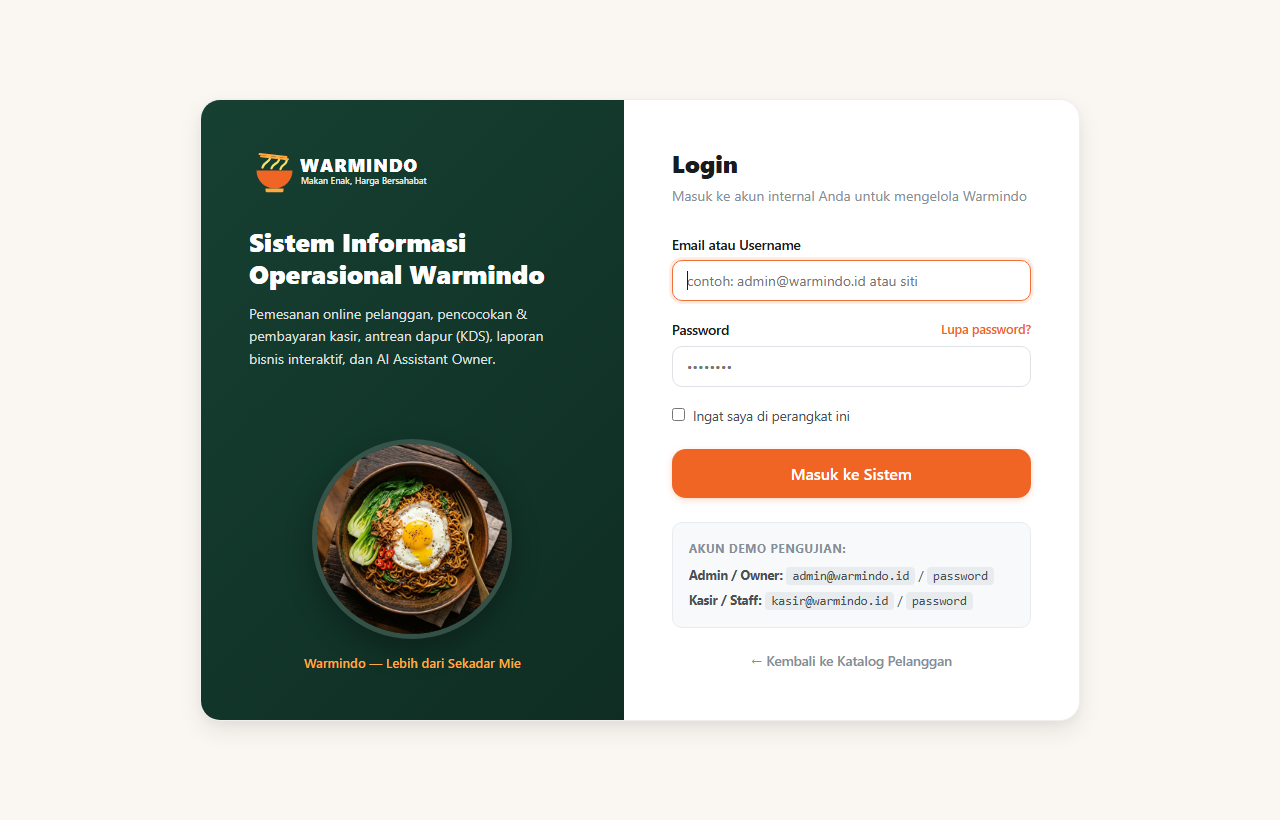
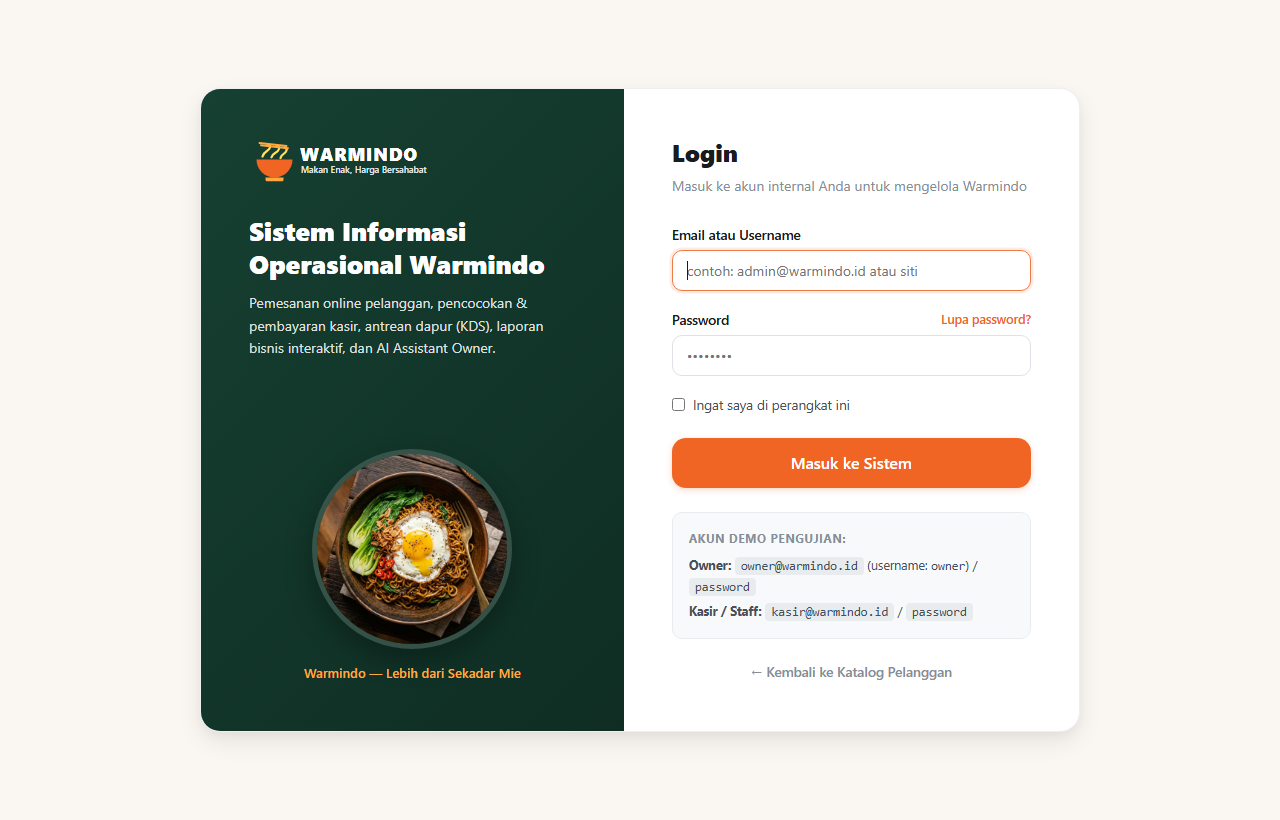
refactor: rename Admin role & UI representations to Owner across layouts, seeders, views, and documentation

diff --git a/resources/views/layouts/admin.blade.php b/resources/views/layouts/admin.blade.php
@@ -3,7 +3,7 @@
 <head>
   <meta charset="UTF-8">
   <meta name="viewport" content="width=device-width, initial-scale=1.0">
-  <title>@yield('title', 'Admin Warmindo — Sistem Operasional & Owner Dashboard')</title>
+  <title>@yield('title', 'Owner Warmindo — Sistem Operasional & Dashboard Bisnis')</title>
   <link rel="stylesheet" href="{{ asset('css/warmindo.css') }}">
   <link rel="icon" type="image/svg+xml" href="{{ asset('images/logo.svg') }}">
   <!-- Chart.js for Interactive Visual Reports -->
@@ -51,7 +51,7 @@
         <li class="sidebar-item">
           <a href="{{ route('admin.suppliers.index') }}" class="sidebar-link {{ request()->routeIs('admin.suppliers*') ? 'active' : '' }}">
             <svg viewBox="0 0 24 24" fill="none" stroke="currentColor" stroke-width="2" stroke-linecap="round" stroke-linejoin="round">
-              <rect x="1" y="3" width="15" height="13"/><polygon points="16 8 20 8 23 11 23 16 16 16 16 8"/><circle cx="5.5" cy="18.5" r="2.5"/><circle cx="18.5" cy="18.5" r="2.5"/>
+              <rect x="1" y="3" width="15" height="13"/><polygon points="16 8 20 8 23 11 23 16 16 16 8"/><circle cx="5.5" cy="18.5" r="2.5"/><circle cx="18.5" cy="18.5" r="2.5"/>
             </svg>
             <span>Supplier</span>
           </a>
@@ -105,11 +105,11 @@
       <!-- Sidebar User Footer -->
       <div class="sidebar-footer">
         <div class="sidebar-user-avatar">
-          {{ strtoupper(substr(auth()->user()->name ?? 'A', 0, 2)) }}
+          {{ strtoupper(substr(auth()->user()->name ?? 'O', 0, 2)) }}
         </div>
         <div class="sidebar-user-info" style="flex: 1; overflow: hidden;">
-          <p style="font-size: 13.5px; font-weight: 700; white-space: nowrap; text-overflow: ellipsis; overflow: hidden;">{{ auth()->user()->name ?? 'Admin' }}</p>
-          <p style="font-size: 11.5px; opacity: 0.65; text-transform: uppercase;">{{ auth()->user()->role ?? 'Admin' }}</p>
+          <p style="font-size: 13.5px; font-weight: 700; white-space: nowrap; text-overflow: ellipsis; overflow: hidden;">{{ auth()->user()->name ?? 'Owner' }}</p>
+          <p style="font-size: 11.5px; opacity: 0.65; text-transform: uppercase;">OWNER</p>
         </div>
         <form action="{{ route('logout') }}" method="POST" style="margin: 0;">
           @csrf

diff --git a/resources/views/tata-letak/admin.blade.php b/resources/views/tata-letak/admin.blade.php
@@ -3,7 +3,7 @@
 <head>
   <meta charset="UTF-8">
   <meta name="viewport" content="width=device-width, initial-scale=1.0">
-  <title>@yield('title', 'Admin Warmindo — Sistem Operasional & Owner Dashboard')</title>
+  <title>@yield('title', 'Owner Warmindo — Sistem Operasional & Dashboard Bisnis')</title>
   <link rel="stylesheet" href="{{ asset('css/warmindo.css') }}">
   <link rel="icon" type="image/svg+xml" href="{{ asset('images/logo.svg') }}">
   <!-- Chart.js for Interactive Visual Reports -->
@@ -105,11 +105,11 @@
       <!-- Sidebar User Footer -->
       <div class="sidebar-footer">
         <div class="sidebar-user-avatar">
-          {{ strtoupper(substr(auth()->user()->name ?? 'A', 0, 2)) }}
+          {{ strtoupper(substr(auth()->user()->name ?? 'O', 0, 2)) }}
         </div>
         <div class="sidebar-user-info" style="flex: 1; overflow: hidden;">
-          <p style="font-size: 13.5px; font-weight: 700; white-space: nowrap; text-overflow: ellipsis; overflow: hidden;">{{ auth()->user()->name ?? 'Admin' }}</p>
-          <p style="font-size: 11.5px; opacity: 0.65; text-transform: uppercase;">{{ auth()->user()->role ?? 'Admin' }}</p>
+          <p style="font-size: 13.5px; font-weight: 700; white-space: nowrap; text-overflow: ellipsis; overflow: hidden;">{{ auth()->user()->name ?? 'Owner' }}</p>
+          <p style="font-size: 11.5px; opacity: 0.65; text-transform: uppercase;">OWNER</p>
         </div>
         <form action="{{ route('logout') }}" method="POST" style="margin: 0;">
           @csrf

diff --git a/resources/views/admin/pengguna/buat.blade.php b/resources/views/admin/pengguna/buat.blade.php
@@ -7,7 +7,7 @@
 <div class="card" style="max-width: 640px; margin: 0 auto; padding: 32px;">
   <div style="margin-bottom: 24px; border-bottom: 1px solid var(--border-light); padding-bottom: 16px;">
     <h3 style="font-size: 18px; font-weight: 800; color: var(--text-dark); margin-bottom: 4px;">Form Tambah Pengguna</h3>
-    <p style="font-size: 13px; color: var(--text-muted); margin: 0;">Buat akun untuk Admin Owner baru atau Staff Kasir / Petugas Dapur.</p>
+    <p style="font-size: 13px; color: var(--text-muted); margin: 0;">Buat akun untuk Owner baru atau Staff Kasir / Petugas Dapur.</p>
   </div>
 
   <form action="{{ route('admin.users.store') }}" method="POST">
@@ -47,7 +47,7 @@
         <label class="form-label" for="role">Role Akses <span class="required">*</span></label>
         <select name="role" id="role" class="form-control form-select" required>
           <option value="staff" {{ old('role') === 'staff' ? 'selected' : '' }}>Staff (Kasir & Dapur)</option>
-          <option value="admin" {{ old('role') === 'admin' ? 'selected' : '' }}>Admin / Owner (Akses Penuh)</option>
+          <option value="admin" {{ old('role') === 'admin' ? 'selected' : '' }}>Owner (Akses Penuh)</option>
         </select>
       </div>
 

diff --git a/resources/views/admin/users/create.blade.php b/resources/views/admin/users/create.blade.php
@@ -7,7 +7,7 @@
 <div class="card" style="max-width: 640px; margin: 0 auto; padding: 32px;">
   <div style="margin-bottom: 24px; border-bottom: 1px solid var(--border-light); padding-bottom: 16px;">
     <h3 style="font-size: 18px; font-weight: 800; color: var(--text-dark); margin-bottom: 4px;">Form Tambah Pengguna</h3>
-    <p style="font-size: 13px; color: var(--text-muted); margin: 0;">Buat akun untuk Admin Owner baru atau Staff Kasir / Petugas Dapur.</p>
+    <p style="font-size: 13px; color: var(--text-muted); margin: 0;">Buat akun untuk Owner baru atau Staff Kasir / Petugas Dapur.</p>
   </div>
 
   <form action="{{ route('admin.users.store') }}" method="POST">
@@ -47,7 +47,7 @@
         <label class="form-label" for="role">Role Akses <span class="required">*</span></label>
         <select name="role" id="role" class="form-control form-select" required>
           <option value="staff" {{ old('role') === 'staff' ? 'selected' : '' }}>Staff (Kasir & Dapur)</option>
-          <option value="admin" {{ old('role') === 'admin' ? 'selected' : '' }}>Admin / Owner (Akses Penuh)</option>
+          <option value="admin" {{ old('role') === 'admin' ? 'selected' : '' }}>Owner (Akses Penuh)</option>
         </select>
       </div>
 

diff --git a/resources/views/admin/pengguna/indeks.blade.php b/resources/views/admin/pengguna/indeks.blade.php
@@ -9,7 +9,7 @@
   <div style="padding: 20px 24px; border-bottom: 1px solid var(--border-light); display: flex; flex-wrap: wrap; justify-content: space-between; align-items: center; gap: 14px;">
     <div>
       <h3 style="font-size: 16px; font-weight: 800; color: var(--text-dark);">Daftar Pengguna Sistem</h3>
-      <p style="font-size: 12.5px; color: var(--text-muted); margin: 0;">Kelola hak akses Admin Owner dan Staff Kasir/Dapur</p>
+      <p style="font-size: 12.5px; color: var(--text-muted); margin: 0;">Kelola hak akses Owner dan Staff Kasir/Dapur</p>
     </div>
 
     <div style="display: flex; gap: 10px;">
@@ -56,8 +56,8 @@
               <div style="font-size: 12px; color: var(--text-muted);">{{ $u->email }}</div>
             </td>
             <td>
-              @if($u->role === 'admin')
-                <span class="badge badge-orange">Admin Owner</span>
+              @if($u->role === 'admin' || $u->role === 'owner')
+                <span class="badge badge-orange">Owner</span>
               @else
                 <span class="badge badge-blue">Staff Kasir / Dapur</span>
               @endif

diff --git a/resources/views/admin/users/index.blade.php b/resources/views/admin/users/index.blade.php
@@ -9,7 +9,7 @@
   <div style="padding: 20px 24px; border-bottom: 1px solid var(--border-light); display: flex; flex-wrap: wrap; justify-content: space-between; align-items: center; gap: 14px;">
     <div>
       <h3 style="font-size: 16px; font-weight: 800; color: var(--text-dark);">Daftar Pengguna Sistem</h3>
-      <p style="font-size: 12.5px; color: var(--text-muted); margin: 0;">Kelola hak akses Admin Owner dan Staff Kasir/Dapur</p>
+      <p style="font-size: 12.5px; color: var(--text-muted); margin: 0;">Kelola hak akses Owner dan Staff Kasir/Dapur</p>
     </div>
 
     <div style="display: flex; gap: 10px;">
@@ -56,8 +56,8 @@
               <div style="font-size: 12px; color: var(--text-muted);">{{ $u->email }}</div>
             </td>
             <td>
-              @if($u->role === 'admin')
-                <span class="badge badge-orange">Admin Owner</span>
+              @if($u->role === 'admin' || $u->role === 'owner')
+                <span class="badge badge-orange">Owner</span>
               @else
                 <span class="badge badge-blue">Staff Kasir / Dapur</span>
               @endif

diff --git a/resources/views/autentikasi/masuk.blade.php b/resources/views/autentikasi/masuk.blade.php
@@ -71,7 +71,7 @@
         <p style="font-size: 12px; font-weight: 700; text-transform: uppercase; letter-spacing: 0.5px; color: var(--text-muted); margin-bottom: 8px;">Akun Demo Pengujian:</p>
         <div style="font-size: 12.5px; line-height: 1.6; color: var(--text-body);">
           <div style="margin-bottom: 4px;">
-            <strong>Admin / Owner:</strong> <code style="background: #E9ECEF; padding: 2px 6px; border-radius: 4px;">admin@warmindo.id</code> / <code style="background: #E9ECEF; padding: 2px 6px; border-radius: 4px;">password</code>
+            <strong>Owner:</strong> <code style="background: #E9ECEF; padding: 2px 6px; border-radius: 4px;">owner@warmindo.id</code> (username: <code>owner</code>) / <code style="background: #E9ECEF; padding: 2px 6px; border-radius: 4px;">password</code>
           </div>
           <div>
             <strong>Kasir / Staff:</strong> <code style="background: #E9ECEF; padding: 2px 6px; border-radius: 4px;">kasir@warmindo.id</code> / <code style="background: #E9ECEF; padding: 2px 6px; border-radius: 4px;">password</code>

diff --git a/resources/views/auth/login.blade.php b/resources/views/auth/login.blade.php
@@ -71,7 +71,7 @@
         <p style="font-size: 12px; font-weight: 700; text-transform: uppercase; letter-spacing: 0.5px; color: var(--text-muted); margin-bottom: 8px;">Akun Demo Pengujian:</p>
         <div style="font-size: 12.5px; line-height: 1.6; color: var(--text-body);">
           <div style="margin-bottom: 4px;">
-            <strong>Admin / Owner:</strong> <code style="background: #E9ECEF; padding: 2px 6px; border-radius: 4px;">admin@warmindo.id</code> / <code style="background: #E9ECEF; padding: 2px 6px; border-radius: 4px;">password</code>
+            <strong>Owner:</strong> <code style="background: #E9ECEF; padding: 2px 6px; border-radius: 4px;">owner@warmindo.id</code> (username: <code>owner</code>) / <code style="background: #E9ECEF; padding: 2px 6px; border-radius: 4px;">password</code>
           </div>
           <div>
             <strong>Kasir / Staff:</strong> <code style="background: #E9ECEF; padding: 2px 6px; border-radius: 4px;">kasir@warmindo.id</code> / <code style="background: #E9ECEF; padding: 2px 6px; border-radius: 4px;">password</code>

diff --git a/resources/views/admin/pengguna/detail.blade.php b/resources/views/admin/pengguna/detail.blade.php
@@ -29,7 +29,7 @@
     </div>
     <div>
       <span style="color: var(--text-muted); font-size: 12.5px; display: block; margin-bottom: 4px;">Role Akses:</span>
-      <span style="font-weight: 700; color: var(--primary);">{{ $user->role === 'admin' ? 'Admin / Owner' : 'Staff Kasir / Dapur' }}</span>
+      <span style="font-weight: 700; color: var(--primary);">{{ ($user->role === 'admin' || $user->role === 'owner') ? 'Owner' : 'Staff Kasir / Dapur' }}</span>
     </div>
     <div>
       <span style="color: var(--text-muted); font-size: 12.5px; display: block; margin-bottom: 4px;">Nomor Telepon:</span>

diff --git a/resources/views/admin/users/show.blade.php b/resources/views/admin/users/show.blade.php
@@ -29,7 +29,7 @@
     </div>
     <div>
       <span style="color: var(--text-muted); font-size: 12.5px; display: block; margin-bottom: 4px;">Role Akses:</span>
-      <span style="font-weight: 700; color: var(--primary);">{{ $user->role === 'admin' ? 'Admin / Owner' : 'Staff Kasir / Dapur' }}</span>
+      <span style="font-weight: 700; color: var(--primary);">{{ ($user->role === 'admin' || $user->role === 'owner') ? 'Owner' : 'Staff Kasir / Dapur' }}</span>
     </div>
     <div>
       <span style="color: var(--text-muted); font-size: 12.5px; display: block; margin-bottom: 4px;">Nomor Telepon:</span>

diff --git a/resources/views/admin/pengguna/ubah.blade.php b/resources/views/admin/pengguna/ubah.blade.php
@@ -44,7 +44,7 @@
         <label class="form-label" for="role">Role Akses <span class="required">*</span></label>
         <select name="role" id="role" class="form-control form-select" required>
           <option value="staff" {{ old('role', $user->role) === 'staff' ? 'selected' : '' }}>Staff (Kasir & Dapur)</option>
-          <option value="admin" {{ old('role', $user->role) === 'admin' ? 'selected' : '' }}>Admin / Owner (Akses Penuh)</option>
+          <option value="admin" {{ old('role', $user->role) === 'admin' ? 'selected' : '' }}>Owner (Akses Penuh)</option>
         </select>
       </div>
 

diff --git a/resources/views/admin/users/edit.blade.php b/resources/views/admin/users/edit.blade.php
@@ -44,7 +44,7 @@
         <label class="form-label" for="role">Role Akses <span class="required">*</span></label>
         <select name="role" id="role" class="form-control form-select" required>
           <option value="staff" {{ old('role', $user->role) === 'staff' ? 'selected' : '' }}>Staff (Kasir & Dapur)</option>
-          <option value="admin" {{ old('role', $user->role) === 'admin' ? 'selected' : '' }}>Admin / Owner (Akses Penuh)</option>
+          <option value="admin" {{ old('role', $user->role) === 'admin' ? 'selected' : '' }}>Owner (Akses Penuh)</option>
         </select>
       </div>
 
